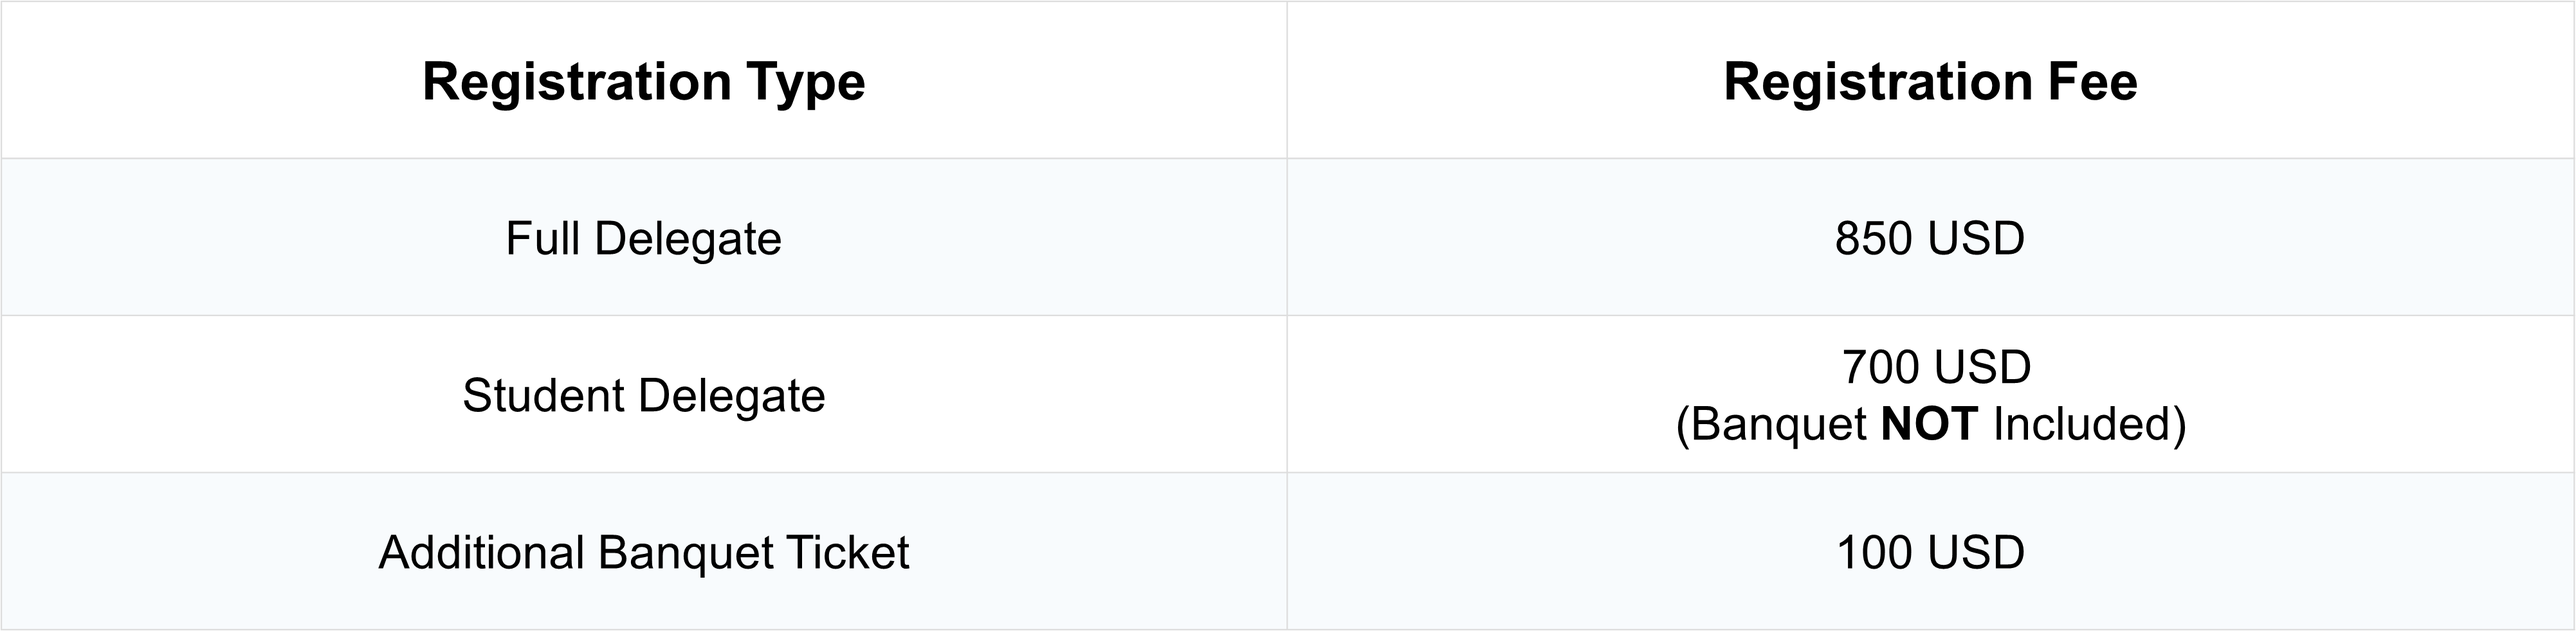
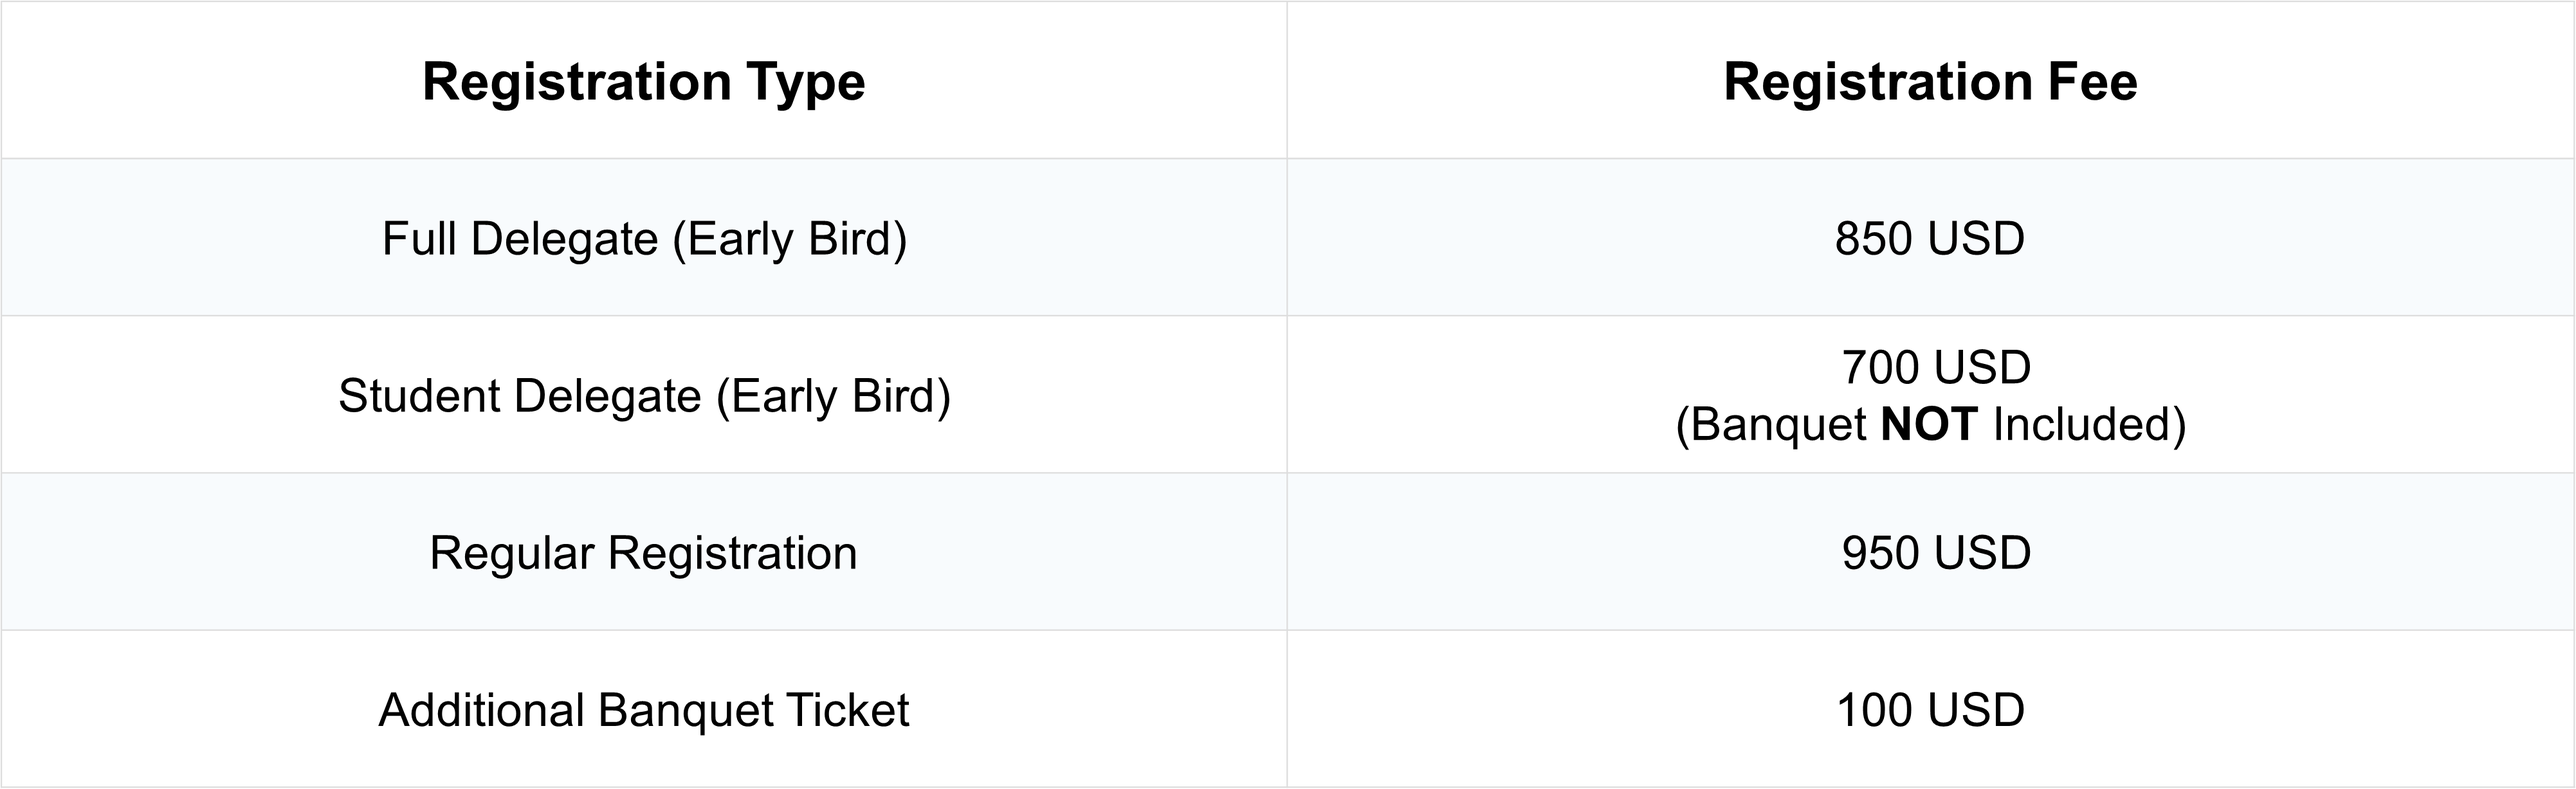
sss

diff --git a/index.html b/index.html
@@ -167,16 +167,19 @@
             </tr>
             <tr>
                 <td>Abstract submission:</td>
-                <td style="text-align: right;">1 February to 15 April 2024</td>
+                <td style="text-align: right;">1 February to 30 March 2024</td>
             </tr>
             
             <tr>
               <td>Abstract acceptance:</td>
-              <td style="text-align: right;">before 30 April 2024</td>
+              <td style="text-align: right;">before 7 April 2024</td>
             </tr>
-            
             <tr>
-              <td>Registration deadline:</td>
+                <td>Early bird registration deadline:</td>
+                <td style="text-align: right;">15 April 2024</td>
+              </tr>
+            <tr>
+              <td>Regular registration deadline:</td>
               <td style="text-align: right;">15 May 2024</td>
             </tr>
             <tr>

diff --git a/registration/index.html b/registration/index.html
@@ -106,7 +106,7 @@
     
  
     <h4>Registration Fee</h4>
-    The registration deadline for CMMM 2024 is <strong>15 May 2024</strong>.
+    The Early bird registration deadline is <strong>15 April 2024</strong>, and Regular registration deadline is <strong>15 May 2024</strong>.
     <!-- <img class="center" src="https://www.cmmm2024.com/assets/fee.png" alt="fee" id="fee" style="width: 100%; height: auto;"> -->
     <picture>
         <source media="(max-width: 768px)" srcset="https://www.cmmm2024.com/assets/fee1.png" >

diff --git a/assets/main.css b/assets/main.css
@@ -215,7 +215,7 @@
 
 /* Style for tables within the .important-dates-container */
 .important-dates-container table {
-    width:50%;
+    width:60%;
     /* border-collapse: collapse; */
     line-height:2em;
     border-collapse: collapse;
